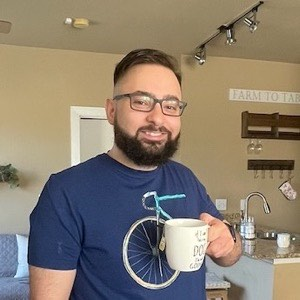
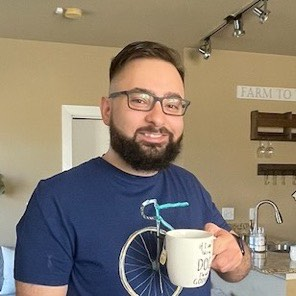
photos: tighter masthead crop, 148px on desktop
Trims the ceiling dead space so the face fills half the frame at render
size, and gives the portrait more presence beside the three-line headline.
Verified at 360/390px.

diff --git a/index.html b/index.html
@@ -107,8 +107,8 @@ header.masthead p{margin:0}
 .faceme{float:right;width:176px;margin:.2rem 0 .6rem 1rem}
 .faceme img{width:100%;height:auto;border:1px solid var(--rule);border-radius:6px;display:block}
 .faceme figcaption{font-size:.7rem;line-height:1.35;text-align:center;margin-top:.35rem;opacity:.8}
-.facewrap{float:right;width:132px;margin:0 0 .75rem 1rem}
-.facewrap img{width:132px;height:132px;object-fit:cover;border:1px solid var(--rule);border-radius:6px;display:block}
+.facewrap{float:right;width:148px;margin:0 0 .75rem 1rem}
+.facewrap img{width:148px;height:148px;object-fit:cover;border:1px solid var(--rule);border-radius:6px;display:block}
 .facewrap figcaption{font-size:.7rem;line-height:1.35;text-align:center;margin-top:.4rem;opacity:.8}
 @media (max-width:480px){
   .facewrap{width:96px}.facewrap img{width:96px;height:96px}